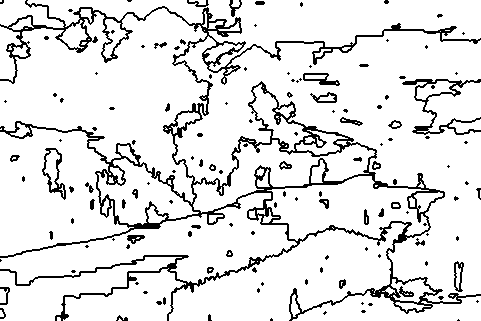
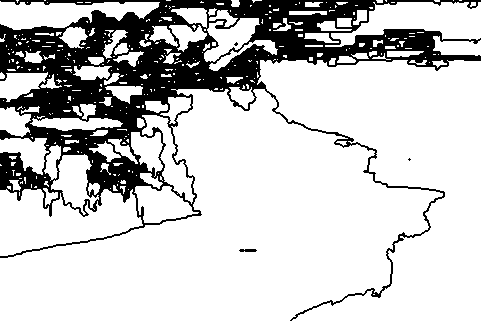
saving alternative initialization

diff --git a/project2/nonDominatedSort.go b/project2/nonDominatedSort.go
@@ -25,19 +25,28 @@ func Max(x, y int) int {
 }
 
 type Solution struct {
-	Genome         []int
+	//Genome contains the graphstructure
+	Genome []int
+	//Cuts contains the indexes such that Genome[index]==4
+	Cuts []int
+	//all the following variables are set by the fitness function
 	FitCon, FitDif float64
 	Dist           float64
+	SegmentSlice   []map[int]empty
+	//SegmentColor [i] is the color of segments[i]
+	SegmentColor []color.Color
 }
 
 type empty struct{}
 
 func mutate(sol Solution) Solution {
 	r := rand.New(rand.NewSource(time.Now().UnixNano()))
-	N := len(sol.Genome)
-	index := r.Int() % N
-	mut := 1 + (r.Int() % 4)
-	sol.Genome[index] = (sol.Genome[index] + mut) % 5
+	segnr := r.Int() % len(sol.SegmentSlice)
+	for i, _ := range sol.SegmentSlice[segnr] {
+		if sol.Genome[i] == 4 {
+			sol.Genome[i] = r.Int() % 4
+		}
+	}
 	return sol
 }
 
@@ -190,60 +199,44 @@ func nextTo(index int, im *image.Image) (int, int, int, int) {
 	return u, r, d, l
 }
 
-func expand(index, count int, visited *map[int]empty, segmentSlice *[]map[int]empty, sol *Solution, im *image.Image) {
-	(*visited)[index] = empty{}
-	(*segmentSlice)[count][index] = empty{}
+func expand(index int, visited map[int]empty, segment map[int]empty, im *image.Image, sol Solution) (map[int]empty, map[int]empty) {
+	visited[index] = empty{}
+	segment[index] = empty{}
 	u, l, d, r := nextTo(index, im)
 	nbors := [4]int{u, l, d, r}
-	target := pointsTo((*sol).Genome[index], index, im)
-	_, ok := (*visited)[target]
-	if !ok {
-		expand(target, count, visited, segmentSlice, sol, im)
-	}
 	for _, j := range nbors {
-		_, ok := (*visited)[j]
+		_, ok := visited[j]
 		if !ok && pointsTo(sol.Genome[j], j, im) == index {
-			expand(j, count, visited, segmentSlice, sol, im)
+			expand(j, visited, segment, im, sol)
 		}
 	}
+	return visited, segment
 }
-func findSegments(sol Solution, im *image.Image) []map[int]empty {
-	bounds := (*im).Bounds()
-	size := (bounds.Max.X - bounds.Min.X) * (bounds.Max.Y - bounds.Min.Y)
-	segments := make([]*[]int, size, size)
-	for i := 0; i < size; i++ {
-		segments[i] = &[]int{i}
-	}
-	count := 0
-	segmentSlice := make([]map[int]empty, 0)
+
+func findSegments(sol *Solution, im *image.Image) {
+	segmentSlice := make([]map[int]empty, 0, 1)
 	visited := make(map[int]empty)
 	for i, _ := range sol.Genome {
 		_, ok := visited[i]
 		if !ok {
-			segmentSlice = append(segmentSlice, make(map[int]empty))
-			expand(i, count, &visited, &segmentSlice, &sol, im)
-			count++
+			segment := make(map[int]empty)
+			segmentSlice = append(segmentSlice, segment)
+			visited, segment = expand(i, visited, segment, im, *sol)
+			segmentSlice = append(segmentSlice, segment)
 		}
+		sol.SegmentSlice = segmentSlice
 	}
-	return segmentSlice
+	(*sol).SegmentSlice = make([]map[int]empty, len(segmentSlice))
+	copy((*sol).SegmentSlice, segmentSlice)
 }
 
-func fitness(sol Solution, im *image.Image) (float64, float64) {
+func fitness(sol *Solution, im *image.Image) {
 
-	segmentSlice := make([]map[int]empty, 0)
-	visited := make(map[int]empty)
-	count := 0
-	for i, _ := range sol.Genome {
-		_, ok := visited[i]
-		if !ok {
-			segmentSlice = append(segmentSlice, make(map[int]empty))
-			expand(i, count, &visited, &segmentSlice, &sol, im)
-			count++
-		}
-	}
+	findSegments(sol, im)
+
 	var r, g, b uint32
-	segmentColor := make([]color.Color, len(segmentSlice))
-	for i, segment := range segmentSlice {
+	sol.SegmentColor = make([]color.Color, len(sol.SegmentSlice))
+	for i, segment := range sol.SegmentSlice {
 		r = 0
 		g = 0
 		b = 0
@@ -261,13 +254,13 @@ func fitness(sol Solution, im *image.Image) (float64, float64) {
 		g /= d
 		b /= d
 
-		segmentColor[i] = color.NRGBA{uint8(r / 0x101), uint8(g / 0x101), uint8(b / 0x101), 255}
+		sol.SegmentColor[i] = color.NRGBA{uint8(r / 0x101), uint8(g / 0x101), uint8(b / 0x101), 255}
 	}
 	nbors := make([]int, 0, 4)
 	fitdif := 0.0
 	fitcon := 0.0
-	for segnum, segment := range segmentSlice {
-		sr, sg, sb, _ := segmentColor[segnum].RGBA()
+	for segnum, segment := range sol.SegmentSlice {
+		sr, sg, sb, _ := sol.SegmentColor[segnum].RGBA()
 		for i, _ := range segment {
 			pr, pg, pb, _ := (*im).At(getxy(i, im)).RGBA()
 			rd := pr - sr
@@ -279,13 +272,13 @@ func fitness(sol Solution, im *image.Image) (float64, float64) {
 			for j := 0; j < 4; j++ {
 				nbor := nbors[j]
 				var seg map[int]empty
-				for _, seg = range segmentSlice {
+				for _, seg = range sol.SegmentSlice {
 				}
 				_, ok := seg[nbor]
 				if ok {
 					break
 				}
-				s2r, s2g, s2b, _ := segmentColor[segnum].RGBA()
+				s2r, s2g, s2b, _ := sol.SegmentColor[segnum].RGBA()
 				rd = s2r - sr
 				bd = s2b - sb
 				gd = s2g - sg
@@ -293,5 +286,86 @@ func fitness(sol Solution, im *image.Image) (float64, float64) {
 			}
 		}
 	}
-	return fitdif, fitcon
+	sol.FitDif = fitdif
+	sol.FitCon = fitcon
+}
+
+func expandInit(mst []int, treeSize *[]int, avrgColor *[]color.Color, nodenr int, img *image.Image) {
+
+	x, y := getxy(nodenr, img)
+	up, ri, do, le := nextTo(nodenr, img)
+	nbors := make([]int, 4)
+	nbors = append(nbors[:0], up, ri, do, le)
+	isPointedto := false
+	(*treeSize)[nodenr] = 1
+	(*avrgColor)[nodenr] = (*img).At(x, y)
+	r, g, b, _ := (*img).At(x, y).RGBA()
+
+	for _, j := range nbors {
+		if pointsTo(mst[j], j, img) == nodenr {
+			expandInit(mst, treeSize, avrgColor, j, img)
+			(*treeSize)[nodenr] += (*treeSize)[j]
+			segr, segg, segb, _ := (*avrgColor)[j].RGBA()
+			r += segr * uint32((*treeSize)[j])
+			g += segg * uint32((*treeSize)[j])
+			b += segb * uint32((*treeSize)[j])
+			isPointedto = true
+		}
+	}
+	if isPointedto {
+		r /= uint32((*treeSize)[nodenr])
+		g /= uint32((*treeSize)[nodenr])
+		b /= uint32((*treeSize)[nodenr])
+	}
+	(*avrgColor)[nodenr] = color.NRGBA{uint8(r / 0x101), uint8(g / 0x101), uint8(b / 0x101), 255}
+}
+
+type contrast struct {
+	index    int
+	contrast float64
+}
+
+func initPop(mst []int, cutnum, popSize int, img *image.Image) [][]int {
+	N := len(mst)
+	var root int
+	treeSize := make([]int, N)
+	avrgColor := make([]color.Color, N)
+	for i, dir := range mst {
+		if dir == 4 {
+			root = i
+			break
+		}
+	}
+	expandInit(mst, &treeSize, &avrgColor, root, img)
+	contrastlist := make([]contrast, N)
+	for i := 0; i < N; i++ {
+		contrastlist[i] = getContrast(avrgColor[i], img, pointsTo(mst[i], i, img))
+		contrastlist[i].index = i
+	}
+	sort.Slice(contrastlist, func(i, j int) bool {
+		return contrastlist[i].contrast > contrastlist[j].contrast
+	})
+	pop := make([][]int, popSize)
+	for i := 0; i < popSize; i++ {
+		pop[i] = make([]int, N)
+		deepcopy(pop[i], mst)
+		for whatever := 0; whatever < cutnum; whatever++ {
+			pop[i][contrastlist[N-whatever-1].index] = 4
+		}
+	}
+	return pop
+}
+
+func getContrast(col color.Color, img *image.Image, target int) contrast {
+
+	var ret contrast
+	ret.index = 0
+	r, g, b, _ := col.RGBA()
+	x, y := getxy(target, img)
+	pr, pg, pb, _ := (*img).At(x, y).RGBA()
+	dr := r - pr
+	dg := g - pg
+	db := b - pb
+	ret.contrast = math.Sqrt(float64(dr*dr + dg*dg + db*db))
+	return ret
 }

diff --git a/project2/evo.go b/project2/evo.go
@@ -1,13 +1,8 @@
 package main
 
 import (
-	"fmt"
 	"image/jpeg"
-	"math"
-	"math/rand"
 	"os"
-	"sort"
-	"time"
 )
 
 /*
@@ -19,8 +14,8 @@ import (
 
 func main() {
 
-	popSize := 10
-	genNum := 50
+	popSize := 4
+	genNum := 20
 
 	file, _ := os.Open("./176035/Test image.jpg")
 	img, _ := jpeg.Decode(file)
@@ -29,28 +24,31 @@ func main() {
 
 	P := make([]*Solution, popSize, popSize)
 
-	mst, edges := Prims(img)
+	mst, _ := Prims(img)
 
-	Genomes := Cutter(mst, edges, popSize, 100, 1000)
+	Genomes := initPop(mst, genNum, popSize, &img)
 	pop := make([]Solution, popSize, popSize)
 
 	for i := 0; i < popSize; i++ {
 		pop[i].Genome = Genomes[i]
 		P[i] = &(pop[i])
+		fitness(P[i], &img)
 	}
-	for i := 0; i < genNum; i++ {
+	/*for i := 0; i < genNum; i++ {
 		fmt.Print(i)
 		fmt.Println(" ")
 		for _, sol := range P {
-			sol.FitDif, sol.FitCon = fitness(*sol, &img)
+			fitness(sol, &img)
+			fmt.Println(len(sol.SegmentSlice))
 		}
 		nextGen := make([]Solution, 0, popSize)
 		NG := make([]*Solution, 0, popSize)
 		for j := 0; j < popSize; j++ {
 			r := rand.New(rand.NewSource(time.Now().UnixNano()))
 			index := int(math.Pow(r.Float64(), 2)) * popSize
+			fmt.Println(len(pop[index].SegmentSlice))
 			child := mutate(pop[index])
-			child.FitDif, child.FitCon = fitness(child, &img)
+			fitness(&child, &img)
 			nextGen = append(nextGen, child)
 			NG = append(NG, &child)
 		}
@@ -71,6 +69,6 @@ func main() {
 		}
 		P = Q
 	}
-	segments := findSegments(*(P[0]), &img)
-	DrawBnW(segments, img.Bounds().Max.X, img.Bounds().Max.Y, img)
+	*/
+	DrawBnW(P[0].SegmentSlice, img.Bounds().Max.X, img.Bounds().Max.Y, img)
 }
